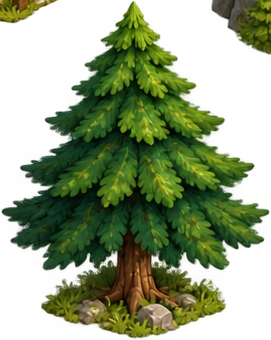
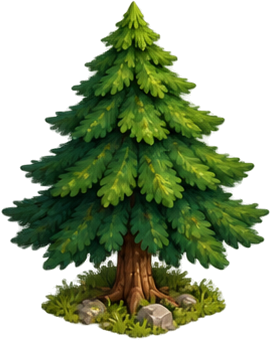
art: clean tree sprites, vary scatter size, outline citizens
- tree_mature/tree_young kept stray grass-rock islands in their top corners;
  keep only the main alpha component (3,174px and 430px removed) plus specks
  on the other four tree PNGs. Kept pixels stay byte-identical.
- deterministic 0.94-1.06 size spread for trees and 0.9-1.1 for rocks, keyed
  by map seed and tile. No lateral offset or flip yet: the art carries baked
  light and a ground shadow, and flipping would mirror both.
- rocks pick rock_a/rock_b from the same hash instead of the (x*7+y*13)%2
  checkerboard.
- citizens get a 1 CSS px dark rim via four offset shadow passes (scaled by
  devicePixelRatio) and a tighter contact shadow, so 17px figures read on
  grass and snow. No sprite edits, no offscreen buffer.
- evidence under docs/art-assets/scatter-variation/.

Changed region(s): [[0.7675, 0.0, 1.0, 0.1765], [0.0, 0.0, 0.2066, 0.0882]]

diff --git a/js/render.js b/js/render.js
@@ -180,6 +180,24 @@ G.sprDraw = function (ctx, name, cx, by, opts) {
   return [dw, dh];
 };
 
+/* 17px citizens vanish into grass and snow. Four hard shadow passes draw a
+ * one-pixel dark rim around the same sprite without touching the artwork or
+ * adding an offscreen buffer; the final draw paints the sprite itself. */
+G.sprDrawRim = function (ctx, name, cx, by, opts) {
+  const im = G.SPR && G.SPR.get(name);
+  if (!im || !im.width) return G.sprDraw(ctx, name, cx, by, opts);
+  const r = G.dpr || 1;   // shadow offsets ignore the canvas transform
+  ctx.save();
+  ctx.shadowColor = 'rgba(22,16,9,0.35)';
+  ctx.shadowBlur = 0;
+  for (const [ox, oy] of [[r, 0], [-r, 0], [0, r], [0, -r]]) {
+    ctx.shadowOffsetX = ox; ctx.shadowOffsetY = oy;
+    G.sprDraw(ctx, name, cx, by, opts);
+  }
+  ctx.restore();
+  return G.sprDraw(ctx, name, cx, by, opts);
+};
+
 /* 地表纹理：季节后缀映射（G.PAL 下标 → 切图文件名后缀） */
 G.TEX_SEASON = ['spring', 'summer', 'autumn', 'winter'];
 /* 在地面缓存里以菱形裁切铺一张可平铺纹理（轻微外溢 1px 消除瓦片接缝），
@@ -425,9 +443,10 @@ G.drawGroundTile = function (c, w, pal, x, y) {
   if (w.rock[i]) {
     const iron = w.rock[i] === 2;
     const rk = iron ? pal.iron : pal.rock, rkD = iron ? pal.ironD : pal.rockD;
+    const v = G.scatterVariation((w.seed | 0) + 17, x, y, 0.9, 1.1);
     const cx = sx, cy = sy + 16;
-    const rn = iron ? 'res_iron' : 'rock_' + (((x * 7 + y * 13) % 2) ? 'b' : 'a') + (G.isWinter() ? '_snow' : '');
-    const spr = G.sprDraw(c, rn, cx, cy + 10, { w: 26 });
+    const rn = iron ? 'res_iron' : 'rock_' + (v.variant ? 'b' : 'a') + (G.isWinter() ? '_snow' : '');
+    const spr = G.sprDraw(c, rn, cx, cy + 10, { w: 26 * v.scale });
     if (spr) {
       if (iron && G.isWinter()) { // 雪顶保持矿脉轮廓可辨，不依赖颜色区分
         c.fillStyle = '#d8e6ef';
@@ -494,13 +513,29 @@ G.buildGround = function () {
 };
 
 /* ---------- 树 ---------- */
-G.drawTree = function (ctx, t) {
+/* Deterministic size variation for scattered ground props.
+ * Render-only: derived from the map seed and the tile, never stored, and it
+ * never touches collision, tasks, pathing or saves. No lateral offset and no
+ * flip yet: the source art carries baked light and a ground shadow, and the
+ * older tree PNGs had stray corner fragments, so mirroring would move both.
+ * A forest of one stamp at identical scale reads as a lattice; a small,
+ * repeatable size spread removes most of that without moving anything. */
+G.scatterVariation = function (seed, x, y, scaleMin, scaleMax) {
+  const a = G.h2(seed + 101, x, y), b = G.h2(seed + 211, x, y);
+  return { scale: scaleMin + (scaleMax - scaleMin) * a, variant: b > 0.5 };
+};
+G.treeVariation = function (t) {
+  return G.scatterVariation(((G.world && G.world.seed) | 0) + 7, t.x, t.y, 0.94, 1.06);
+};
+G.drawTree = function (ctx, t, variation) {
+  const v = variation || G.treeVariation(t);
   const [sx, sy] = G.T2S(t.x, t.y);
   const by = sy + 16;
   const stage = G.treeStage(t);
   const winter = G.isWinter();
   const sprName = 'tree_' + ['sapling', 'young', 'mature'][stage] + (winter ? '_snow' : '');
-  if (G.sprDraw(ctx, sprName, sx, by)) return;
+  const baseH = (G.SPRITE_SIZES[sprName] || {}).h;
+  if (G.sprDraw(ctx, sprName, sx, by, baseH ? { h: baseH * v.scale } : undefined)) return;
   const col = G.TREE_COLORS.canopy[(t.x * 7 + t.y * 13) % G.TREE_COLORS.canopy.length];
   const trunk = G.TREE_COLORS.trunk;
   if (stage === 0) {
@@ -1051,9 +1086,9 @@ G.drawCitizen = function (ctx, c, time, homes) {
   const atTarget = target && G.d2(target.x, target.y, c.x, c.y) < 0.01;
   const sx = sx0 - (atTarget ? facing * 4 * s : 0);
   // 阴影；露宿者保持可见，不用透明度伪装成入屋。
-  ctx.fillStyle = 'rgba(0,0,0,0.25)';
+  ctx.fillStyle = 'rgba(0,0,0,0.3)';
   ctx.beginPath();
-  ctx.ellipse(sx, sy, 3.4 * s, 1.7 * s, 0, 0, Math.PI * 2);
+  ctx.ellipse(sx, sy, 2.9 * s, 1.5 * s, 0, 0, Math.PI * 2);
   ctx.fill();
   const f = Math.floor(c.animT / 1.5);
   let frame, fallback;
@@ -1069,8 +1104,8 @@ G.drawCitizen = function (ctx, c, time, homes) {
     fallback = walking ? 'adult_walk_' + (f % 4) : 'adult_idle';
   } else frame = walking ? 'adult_walk_' + (f % 4) : 'adult_idle';
   const bodyY = sy - (working ? bob : 0);
-  if (!G.sprDraw(ctx, frame, sx, bodyY, { flip }) &&
-      !(fallback && G.sprDraw(ctx, fallback, sx, bodyY, { flip }))) {
+  if (!G.sprDrawRim(ctx, frame, sx, bodyY, { flip }) &&
+      !(fallback && G.sprDrawRim(ctx, fallback, sx, bodyY, { flip }))) {
     ctx.fillStyle = child ? '#a3703f' : '#6e4a33';
     ctx.fillRect(sx - 1.7 * s, sy - 7.5 * s - bob, 3.4 * s, 5.2 * s);
     ctx.fillStyle = '#d8a37a';
@@ -1306,7 +1341,10 @@ G.frame = function (dtReal) {
     for (let x = tx0; x <= tx1; x++) {
       const idx = w.treeIdx[y * w.N + x];
       if(G.isMountain&&G.isMountain(w,x,y))items.push({d:x+y+1,k:8,x,y});
-      if (idx >= 0) items.push({ d: x + y, k: 0, x, y, t: w.trees[idx], marked: w.marked.has(y * w.N + x) });
+      if (idx >= 0) {
+        const tree = w.trees[idx];
+        items.push({ d: x + y, k: 0, x, y, t: tree, v: G.treeVariation(tree), marked: w.marked.has(y * w.N + x) });
+      }
       if (w.rock[y * w.N + x] && w.markedRocks && w.markedRocks.has(y * w.N + x))
         items.push({ d: x + y + 0.02, k: 3, x, y });
     }
@@ -1340,7 +1378,7 @@ G.frame = function (dtReal) {
   G.prepareBuildingActivities(G._visibleActivityBuildings,now);
   for (const it of items) {
     if (it.k === 0) {
-      G.drawTree(ctx, it.t);
+      G.drawTree(ctx, it.t, it.v);
       if (it.marked) { // 待砍标记（原版 Harvest Trees 的选中态）
         const [msx, msy] = G.T2S(it.x, it.y);
         G.diamondPath(ctx, msx, msy);

diff --git a/docs/art-assets/scatter-variation/README.md b/docs/art-assets/scatter-variation/README.md
@@ -1,0 +1,28 @@
+# 第一批：树素材清理、树石有限变化、人物可读性
+
+状态：**可用候选，未合并。** 只改渲染与三张/六张树 PNG 的透明像素，不动碰撞、寻路、任务、存档和玩法数值。
+
+## 做了什么
+
+1. **树素材清理**：`tree_mature` / `tree_young` 的原图左上、右上角各粘着草石残片（透明通道上是独立连通块）。按 alpha 连通块只保留主体，清掉 `mature` 3,174px、`young` 430px；`sapling` 和三个雪版只剩 1–11px 噪点，一并清掉。画布尺寸不变，脚点对齐不变。
+2. **树的有限变化**：只加尺寸，`0.94–1.06`，由 `G.h2(mapSeed + 7, x, y)` 决定，同一棵树每次重绘、读档、平移后都一样。**没有**做横向抖动和翻转：翻转会把烘焙光照和脚下阴影一起镜像，原图边角残片也会跟着翻；抖动则要同步改深度排序。两者留到素材重绘后再做。
+3. **石头**：原来的 `((x*7+y*13)%2)` 是严格棋盘，改成同一套稳定哈希选 `rock_a` / `rock_b`，尺寸 `0.9–1.1`。石头烘在地面缓存里，只改绘制参数，缓存结构和裁切不变。
+4. **人物可读性**：新增 `G.sprDrawRim()`，用四次零模糊 offset shadow 在精灵外沿描一圈 `rgba(22,16,9,.35)` 的 1 CSS px 暗边，再正常绘制一次；偏移按 `G.dpr` 缩放，Retina 上不会变成半像素。同时把脚下阴影从 `3.4×1.7 / 25%` 收到 `2.9×1.5 / 30%`，少一圈“水洼”。每帧每个可见村民多 4 次小图 drawImage，没有离屏缓冲。
+
+## 证据（同机位、同存档、同季节与时刻）
+
+- `forest-before-after.png`：3 倍森林，左=main，右=本分支。
+- `rocks-before-after.png`：2 倍石田，棋盘选型消失，尺寸开始有差。
+- `citizen-summer-before-after.png` / `citizen-winter-before-after.png`：1.5 倍单人，草地与雪地各一组。
+
+从图上能确认：树左上/右上的残片在 main 里还在，本分支没有；石田不再是隔一个换一枚；村民在草地和雪地上都多了一圈暗边，1 倍下的轮廓比原来清楚。DPR 2 下另抓了 2880×1800 画布位图确认描边不是半像素。
+
+## 测试
+
+`smoke 226`、`citizen-presentation 22`、`terrain-presentation 8/8`、`ground-cache-budget`、`mountain-render 10` 通过。`art_assets` 在 main 上同样失败（`buildingActivity` 在 synthetic world 上读 `bmap`），与本分支无关，由 #108 修。
+
+## 没做的
+
+- 横向抖动、翻转、树的旋转：等素材重绘 + 光照/阴影分层后再评估。
+- 冬季屋顶积雪、庭院植被冬态、果树冬季形态：单独一批。
+- 地面清晰度：需要可见区域细节层与性能预算验证，另做。
